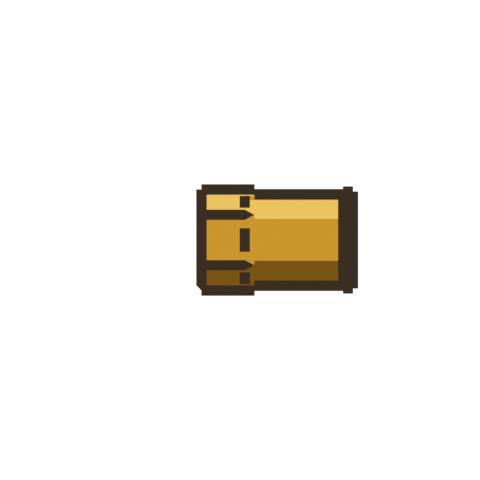
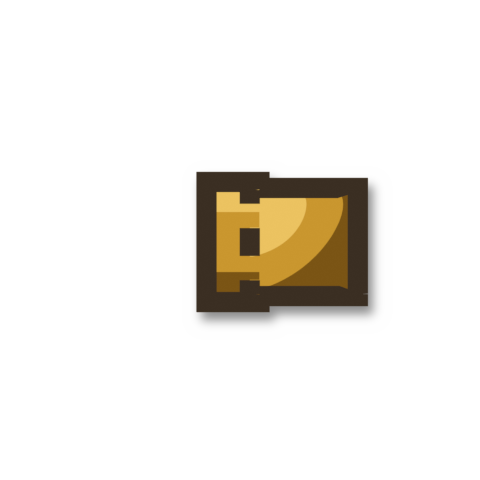
Blender-детали доведены: крупнее, обводка толще, мягкая тень, стыки без пунктира, тройник — сквозная труба с отводом
Claude-Session: https://claude.ai/code/session_01KTF9zcDbthXae1taWntBSd

Changed region(s): [[0.4062, 0.3438, 0.8125, 0.6875]]

diff --git a/art/blender/fittings.py b/art/blender/fittings.py
@@ -11,7 +11,7 @@ ONLY = set(argv[1:]) - {'levels'}
 os.makedirs(OUT, exist_ok=True)
 
 LIM = .47
-R_BODY, R_SOCK, R_THR, R_HEX = .15, .19, .12, .21
+R_BODY, R_SOCK, R_THR, R_HEX = .18, .225, .145, .25  # крупнее (03.10): поле выросло, детали должны читаться
 
 
 def reset():
@@ -23,7 +23,7 @@ def reset():
     sc.view_settings.view_transform = 'Standard'
     sc.render.use_freestyle = True
     sc.render.line_thickness_mode = 'ABSOLUTE'
-    sc.render.line_thickness = 3.2
+    sc.render.line_thickness = 4.5
     vl = sc.view_layers[0]
     ls = vl.freestyle_settings.linesets.new('ol')
     ls.select_by_visibility = True
@@ -37,7 +37,7 @@ def reset():
     if ls.linestyle is None:
         ls.linestyle = bpy.data.linestyles.new('ol')
     ls.linestyle.color = (0.043, 0.027, 0.016)
-    ls.linestyle.thickness = 3.2
+    ls.linestyle.thickness = 4.5
     vl.freestyle_settings.crease_angle = math.radians(120)
     for other in vl.freestyle_settings.linesets:
         if other.linestyle is None:
@@ -100,7 +100,7 @@ def mats():
 def cyl(r, x0, x1, axis='X', verts=48, mat=None):
     """Цилиндр вдоль оси от x0 до x1 (в долях клетки)."""
     L = x1 - x0
-    bpy.ops.mesh.primitive_cylinder_add(vertices=verts, radius=r, depth=abs(L), end_fill_type='NOTHING')  # торцы сбоку не видны, а их рёбра дают обводке лишние чёрточки
+    bpy.ops.mesh.primitive_cylinder_add(vertices=verts, radius=r, depth=abs(L))
     o = bpy.context.object
     c = (x0 + x1) / 2
     if axis == 'X':
@@ -147,8 +147,7 @@ def thread(x0, x1, r=R_THR, pitch=.05):
 
 def socket(x0, x1):
     """Раструб с внутренней резьбой: шире тела, буртик на торце."""
-    cyl(R_SOCK, x0, x1 - .04)
-    cyl(R_SOCK * 1.06, x1 - .04, x1)
+    cyl(R_SOCK, x0, x1)
 
 
 def port(dirv, th, start):
@@ -169,14 +168,14 @@ DIRS = {'right': (1, 0), 'left': (-1, 0), 'up': (0, 1), 'down': (0, -1)}
 
 
 def arm(dirv, x1):
-    o = cyl(R_BODY, 0, x1)
+    o = cyl(R_BODY * .97, 0, x1)
     o.data.transform(Matrix.Rotation(-math.atan2(dirv[1], dirv[0]), 4, 'Y'))
 
 
 def elbow(d1, d2):
     """Гнутое колено: четверть тора между двумя выходами + прямые хвосты."""
     v1, v2 = Vector((DIRS[d1][0], 0, DIRS[d1][1])), Vector((DIRS[d2][0], 0, DIRS[d2][1]))
-    rb = .17
+    rb = .19
     corner = (v1 + v2) * rb  # центр изгиба
     bpy.ops.mesh.primitive_torus_add(major_radius=rb, minor_radius=R_BODY, major_segments=64, minor_segments=32)
     t = bpy.context.object
@@ -190,7 +189,7 @@ def elbow(d1, d2):
     bpy.ops.object.shade_smooth()
     t.data.materials.append(BRASS)
     for d in (d1, d2):
-        o = cyl(R_BODY, rb - .005, .30)
+        o = cyl(R_BODY * .97, rb - .02, .30)
         dv = DIRS[d]; o.data.transform(Matrix.Rotation(-math.atan2(dv[1], dv[0]), 4, 'Y'))
 
 
@@ -214,10 +213,14 @@ def build(ports):
         o = hexp(R_HEX, -.16, .06)
         dv = DIRS[d]; o.data.transform(Matrix.Rotation(-math.atan2(dv[1], dv[0]), 4, 'Y'))
         port(dv, ports[d], .06 if ports[d] == 'N' else .02)
-    else:                                              # тройник
-        for d in ds: arm(DIRS[d], .28)
-        bpy.ops.mesh.primitive_uv_sphere_add(radius=R_BODY * 1.12, segments=48, ring_count=24)
-        bpy.ops.object.shade_smooth(); bpy.context.object.data.materials.append(BRASS)
+    else:                                              # тройник: сквозная труба по паре противоположных выходов + отвод
+        pair = next(((a, b) for a in ds for b in ds if DIRS[a][0] == -DIRS[b][0] and DIRS[a][1] == -DIRS[b][1] and a < b), None)
+        if pair:
+            o = cyl(R_BODY, -.30, .30)
+            dv = DIRS[pair[0]]; o.data.transform(Matrix.Rotation(-math.atan2(dv[1], dv[0]), 4, 'Y'))
+        for d in ds:
+            if not pair or d not in pair:
+                arm(DIRS[d], .30)
         for d in ds: port(DIRS[d], ports[d], .26)
 
 
@@ -261,5 +264,9 @@ for name, ports in SET.items():
     sc.render.use_freestyle = False
     sc.render.filepath = b; bpy.ops.render.render(write_still=True)
     import subprocess
-    subprocess.run(['convert', a, b, '-composite', os.path.join(OUT, name + '.png')], check=True)
+    c = os.path.join(OUT, '_c.png')
+    subprocess.run(['convert', a, b, '-composite', c], check=True)
+    subprocess.run(['convert', c, '(', '+clone', '-background', 'black', '-shadow', '45x5+5+8', ')', '+swap',
+                    '-background', 'none', '-layers', 'merge', '+repage', '-gravity', 'northwest', '-crop', '480x480+0+0', '+repage',
+                    os.path.join(OUT, name + '.png')], check=True)
     print('RENDER', name)
